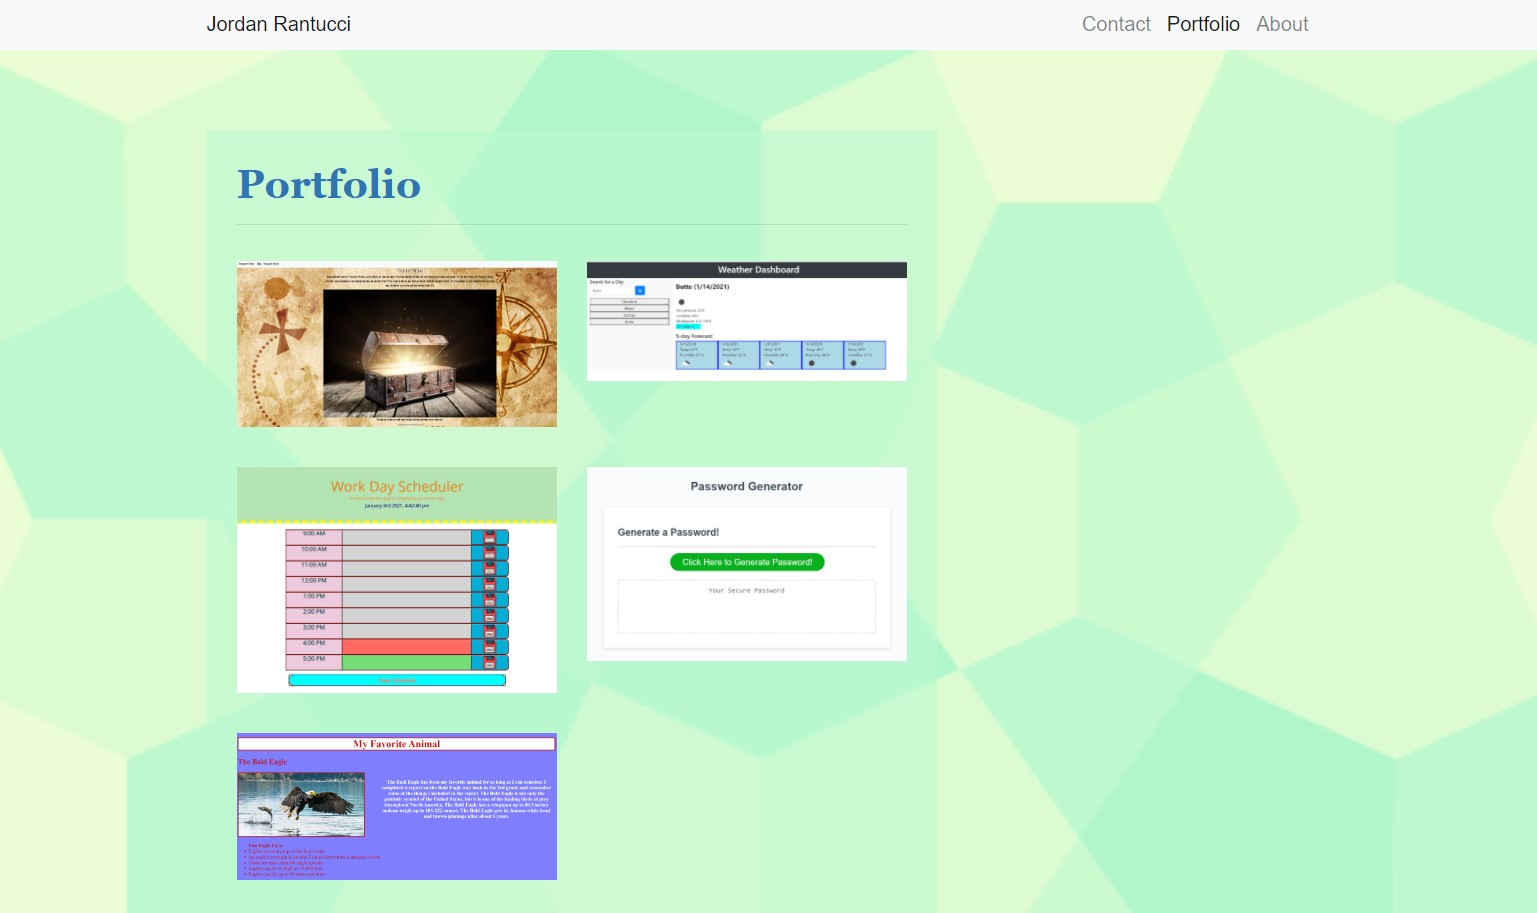
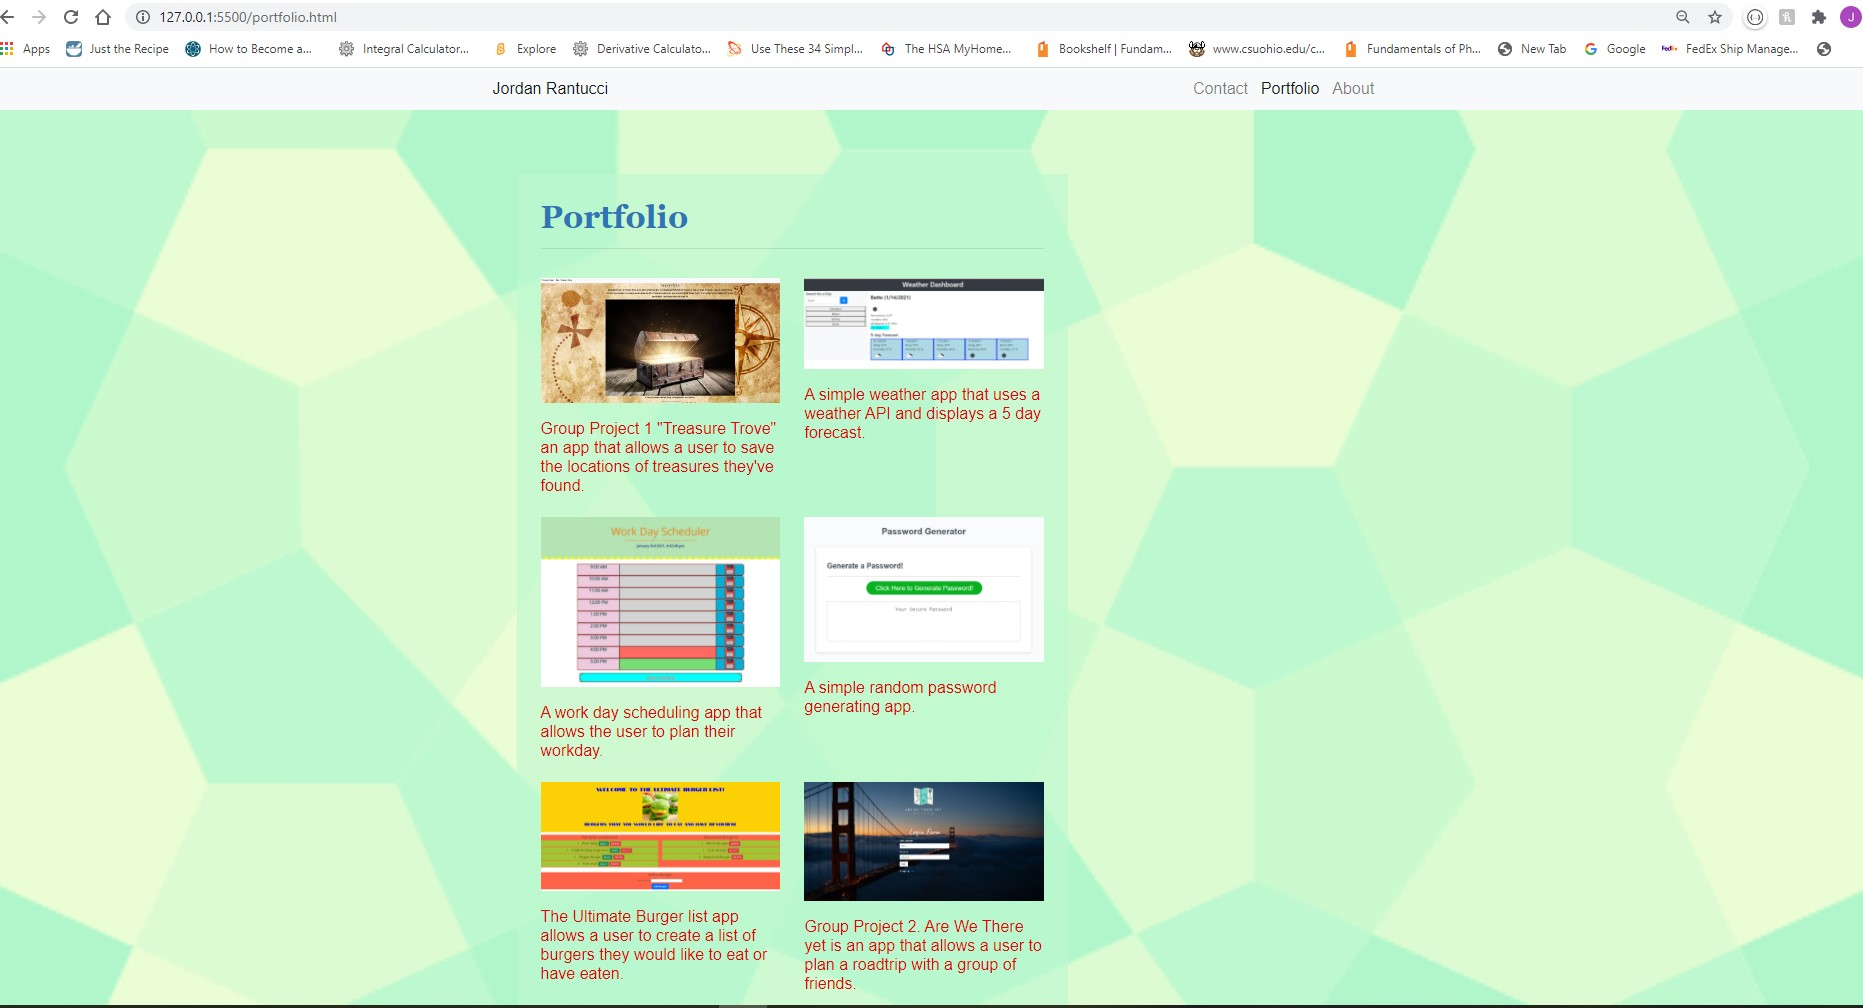
adding additional portfolio examples with captions

diff --git a/portfolio.html b/portfolio.html
@@ -60,11 +60,13 @@
               <a href=https://jordanrantucci.github.io/Treasure_Trove/ target="_blank">
                 <img class="img-fluid port-image" src="Assets/Images/Treasure_Trove.jpg" alt="Treasure_Trove_Project_1">
               </a>
+              <h5>Group Project 1 "Treasure Trove" an app that allows a user to save the locations of treasures they've found.</h5>
             </div>
             <div class="col-sm-6 col-md-12 col-lg-6">
               <a href="https://jordanrantucci.github.io/Weather-Dashboard/" target="_blank">
                 <img class="img-fluid port-image" src="Assets/Images/Butte.jpg" alt="Weather_API">
               </a>
+              <h5>A simple weather app that uses a weather API and displays a 5 day forecast.</h5>
             </div>
           </div>
           <div class="row">
@@ -72,12 +74,14 @@
               <a href="https://jordanrantucci.github.io/Work-Day-Scheduler/" target="_blank">
                 <img class="img-fluid port-image" src="Assets/Images/work-day-screenshot.jpg" alt="Work-Day-Schedule">
               </a>
+              <h5>A work day scheduling app that allows the user to plan their workday.</h5>
             </div>
             <div class="col-sm-6 col-md-12 col-lg-6">
               <a href="https://jordanrantucci.github.io/Homework3-Random-Password-Generator/" target="_blank">
                 <img class="img-fluid port-image" src="Assets/Images/display-screen-shot.jpg"
                   alt="Random_Passwork_Generator">
               </a>
+              <h5>A simple random password generating app.</h5>
             </div>
           </div>
           <div class="row">
@@ -85,15 +89,32 @@
               <a href="https://floating-stream-42297.herokuapp.com/" target="_blank">
                 <img class="img-fluid port-image" src="Assets/Images/deployed_example.jpg" alt="The Ultimate Burger List!">
               </a>
+              <h5>The Ultimate Burger list app allows a user to create a list of burgers they would like to eat or have eaten.</h5>
             </div>
-          </div>
-          <div class="row">
             <div class ="col-sm col-md-12 col-lg-6">
               <a href="https://arewethereyet.herokuapp.com" target="_blank">
                 <img class="img-fluid port-image" src="Assets/Images/example1.PNG" alt="Are We There Yet">
               </a>
+              <h5>Group Project 2.  Are We There yet is an app that allows a user to plan a roadtrip with a group of friends.</h5>
             </div>
           </div>
+          <div class='row'>
+            <div class="col-sm-6 col-md-12 col-lg-6">
+              <img class="img-fluid port-image" src="Assets/Images/node.gif" alt="Team Profile Generator">
+              <h5>The Profile Generator is an example that uses node.js and inquirer</h5>
+          </div>
+          <div class="col-sm col-md-12 col-lg-6">
+            <img class="img-fluid port-image" src="Assets/Images/demo.gif" alt="Employee Management System">
+            <h5>Employee Management System is an Example of usinfe node.js with MySQL and practicing table joins.</h5>
+          </div>
+        <div class="row">
+          <div class="col-sm col-md-12 col-lg-6">
+            <a href="https://murmuring-taiga-63819.herokuapp.com/" target="_blank">
+            <img class="img-fluid port image" src="Assets/Images/demo1.gif" alt="Note Taker App">
+            </a>
+            <h5>An app that allows a user to take notes, practicing node.js and get, post, and delete routes.</h5>
+          </div>
+        </div>
         </article>
       </div>
     </main>
